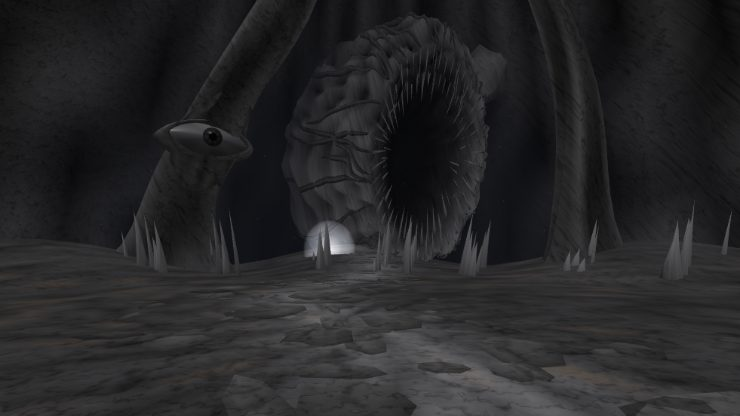
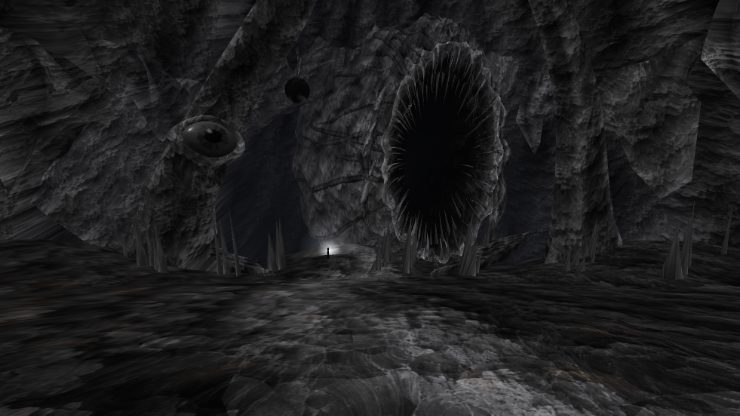
Integrar o nódulo suspenso e comparar o novo relevo na mesma câmera

diff --git a/greed-abyss3d.js b/greed-abyss3d.js
@@ -192,6 +192,21 @@ export function createGreedAbyss(T, parent, radius) {
     return [c.x+n.x*x+b.x*y,c.y+n.y*x+b.y*y,c.z+n.z*x+b.z*y,
       .036+.105*joint*layer+.058*Math.max(0,-sin(a+.4))];
   });
+  // A polished black nodule hangs in the gap under the arch. Its thin
+  // mineral crescent and three divergent tethers read even in silhouette.
+  const nodule={x:-12,y:38,z:-56,r:2.65};
+  surface(compact?14:22,compact?22:32,(u,v)=>{
+    const a=v*tau,lat=u*Math.PI,r=nodule.r*sin(lat);
+    const rim=Math.exp(-((u-.81)**2)/.0018)*(.5+.5*cos(a+1.2));
+    return [nodule.x+r*cos(a),nodule.y+nodule.r*cos(lat),nodule.z+r*sin(a),
+      .005+.34*rim+.023*(1-u)**4];
+  });
+  surface(compact?12:18,4,(u,v,j)=>{
+    const a=j*tau/3,bend=u*u*(j===0?7:4.3),w=.13+.41*u**3;
+    return [nodule.x+cos(a)*(.65+bend)+w*cos(v*tau),
+      nodule.y+2.3+u*(13+j*2),
+      nodule.z+sin(a)*(.5+bend)-13*u+w*sin(v*tau),.032+.13*(.5+.5*cos(v*tau+a))];
+  },group,3);
   // Thin torn sails descend from vaulted folds. Individual tears open
   // windows through to the farther wall instead of filling it with pillars.
   surface(compact?15:24,6,(u,v,j)=>{
